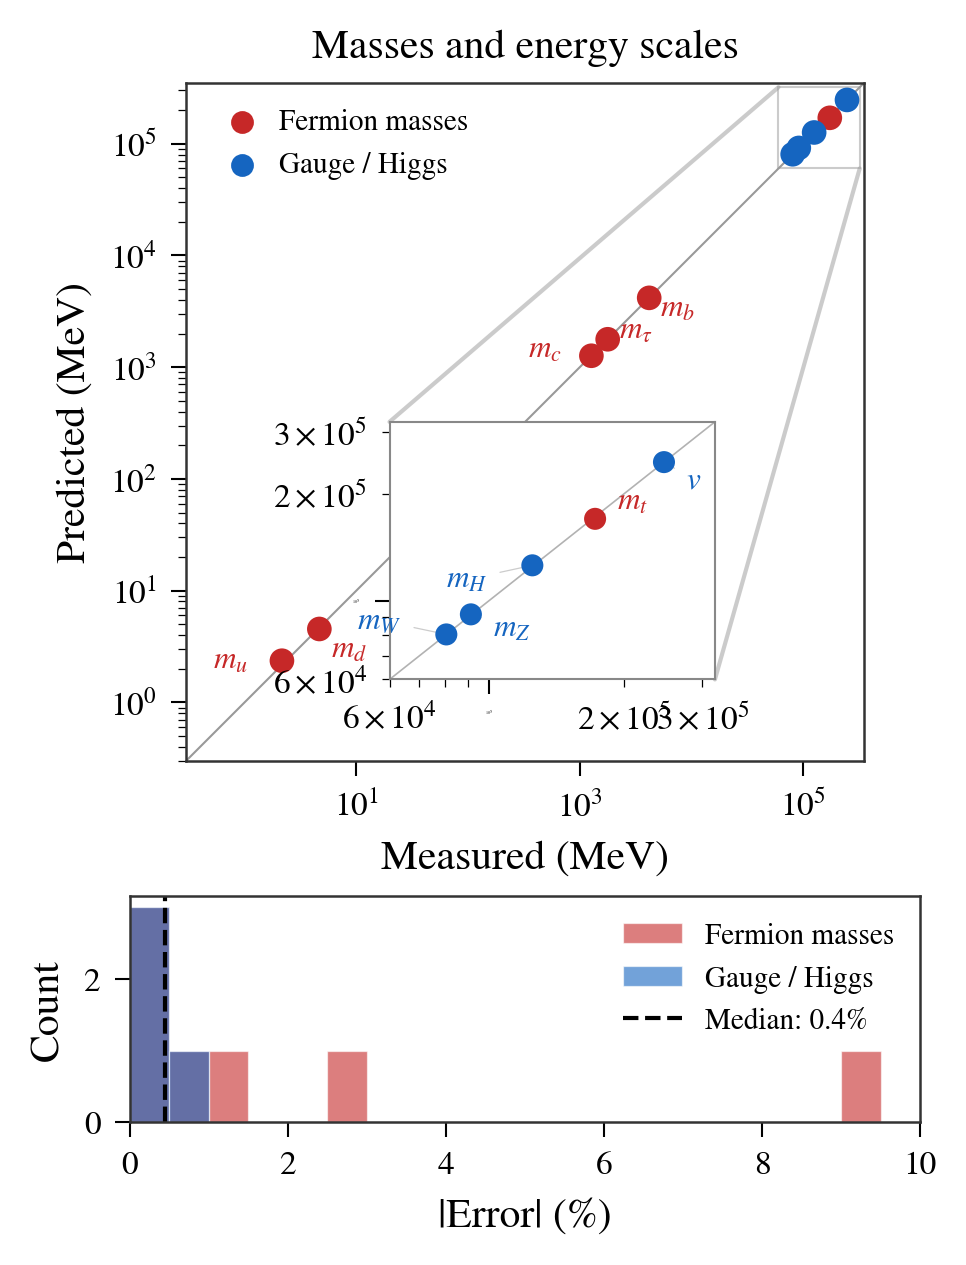
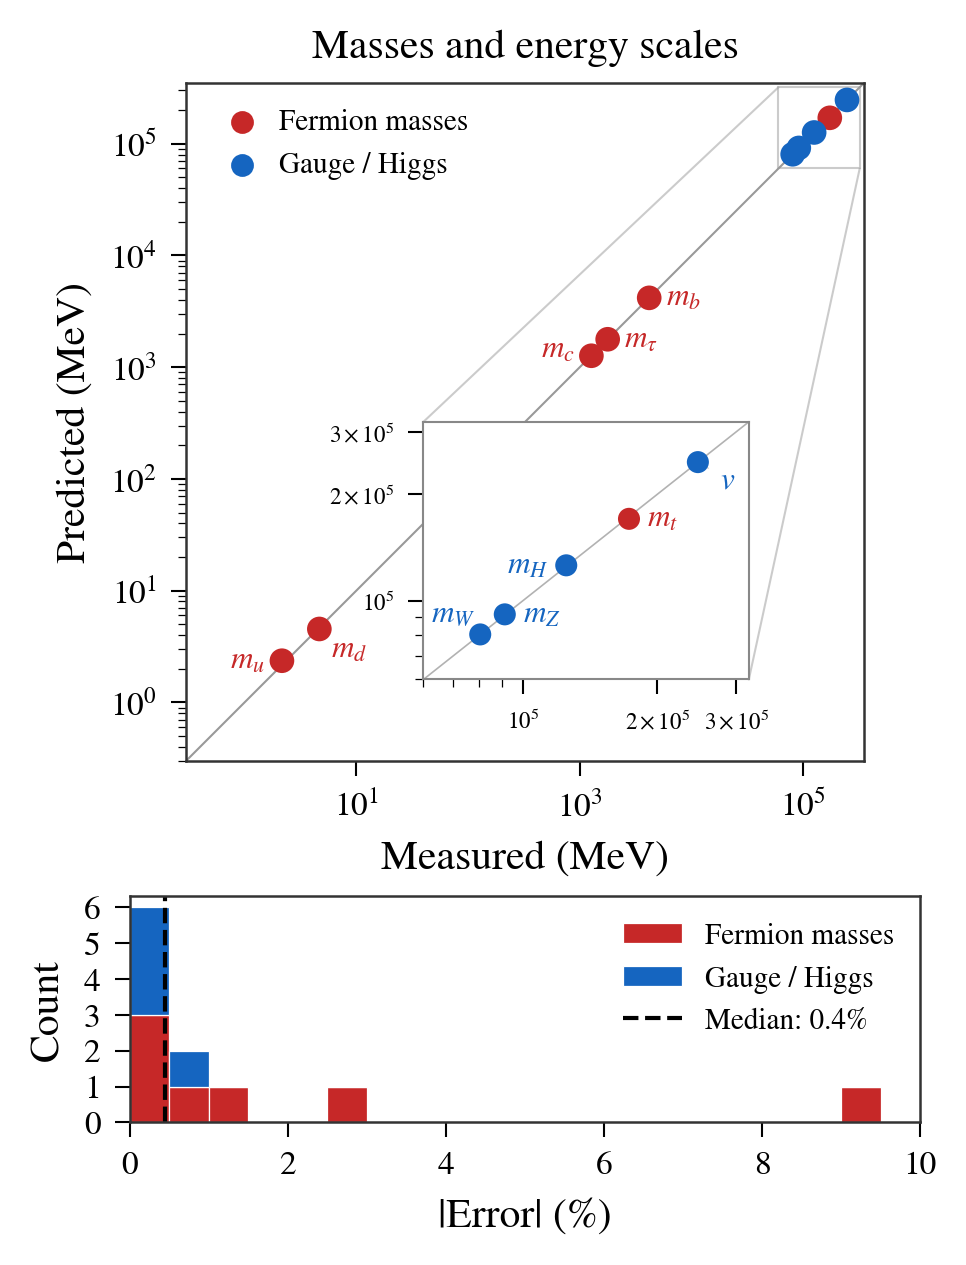
Polish figure 2a/2b: consistent label spacing, thinner zoom lines, stacked histograms
- Align mass labels level with dots (m_t, m_H, m_Z, m_b, m_tau)
- Consistent horizontal label distance across outer plot and inset
- Move m_W label inside inset, remove unnecessary callout lines
- Match zoom connector line thickness to inset box border
- Fix non-integer histogram bars by switching to stacked histograms
- Add callout lines for displaced labels in figure 2b (delta_CP, sin2theta_23)
- Reposition figure 2b inset and labels to avoid collisions

diff --git a/papers/figures/generate_figures.py b/papers/figures/generate_figures.py
@@ -193,12 +193,20 @@ def _add_error_histogram(ax, subset_data):
     present_sectors = sorted(set(s for _, _, _, s in subset_data),
                              key=list(SECTOR_COLORS.keys()).index)
     bins = np.linspace(0, 10, 21)
+    stacked_errors = []
+    stacked_colors = []
+    stacked_labels = []
     for sec in present_sectors:
         sec_errors = [abs(p - m) / m * 100
                       for _, p, m, s in subset_data if s == sec and m != 0]
         if sec_errors:
-            ax.hist(sec_errors, bins=bins, color=SECTOR_COLORS[sec], alpha=0.6,
-                    label=SECTOR_LABELS[sec], edgecolor='white', linewidth=0.3)
+            stacked_errors.append(sec_errors)
+            stacked_colors.append(SECTOR_COLORS[sec])
+            stacked_labels.append(SECTOR_LABELS[sec])
+    if stacked_errors:
+        ax.hist(stacked_errors, bins=bins, color=stacked_colors,
+                label=stacked_labels, stacked=True,
+                edgecolor='white', linewidth=0.3)
     if errors:
         median_err = np.median(errors)
         ax.axvline(median_err, color='black', linewidth=1.0, linestyle='--',
@@ -206,6 +214,7 @@ def _add_error_histogram(ax, subset_data):
     ax.set_xlabel('|Error| (%)')
     ax.set_ylabel('Count')
     ax.set_xlim(0, 10)
+    ax.yaxis.set_major_locator(matplotlib.ticker.MaxNLocator(integer=True))
     ax.legend(fontsize=7, loc='upper right', framealpha=0.8, edgecolor='none')
 
 
@@ -238,12 +247,12 @@ def figure2a_masses():
     # Label well-separated points directly
     ew_labels = {r'$m_t$', r'$v$', r'$m_H$', r'$m_W$', r'$m_Z$'}
     offsets_mass = {
-        r'$m_u$':    (-0.30, 0.0),
+        r'$m_u$':    (-0.15, 0.0),
         r'$m_d$':    (0.10, -0.18),
         r'$m_s$':    (0.10, 0.08),
-        r'$m_c$':    (-0.26, 0.06),
-        r'$m_\tau$': (0.10, 0.08),
-        r'$m_b$':    (0.10, -0.10),
+        r'$m_c$':    (-0.15, 0.06),
+        r'$m_\tau$': (0.15, 0.0),
+        r'$m_b$':    (0.15, 0.0),
     }
     for label, pred, meas, sector in masses:
         if label in ew_labels:
@@ -257,7 +266,7 @@ def figure2a_masses():
                     ha='left' if dx > 0 else 'right', va='center')
 
     # Zoomed inset for electroweak cluster — positioned in the empty center
-    ax_ins = ax.inset_axes([0.30, 0.12, 0.48, 0.38])
+    ax_ins = ax.inset_axes([0.35, 0.12, 0.48, 0.38])
     ew_masses = [(l, p, m, s) for l, p, m, s in masses if l in ew_labels]
     for label, pred, meas, sector in ew_masses:
         ax_ins.scatter(meas, pred, c=SECTOR_COLORS[sector], s=28,
@@ -269,30 +278,40 @@ def figure2a_masses():
     ax_ins.set_yscale('log')
     ax_ins.set_xlim(ins_lo, ins_hi)
     ax_ins.set_ylim(ins_lo, ins_hi)
-    ax_ins.tick_params(labelsize=0)  # hide ticks — labels provide context
+    ax_ins.tick_params(which='both', labelsize=5.5)
+    ax_ins.set_xticks([1e5, 2e5, 3e5])
+    ax_ins.set_yticks([1e5, 2e5, 3e5])
+    ax_ins.xaxis.set_minor_formatter(matplotlib.ticker.NullFormatter())
+    ax_ins.yaxis.set_minor_formatter(matplotlib.ticker.NullFormatter())
     for spine in ax_ins.spines.values():
         spine.set_linewidth(0.5)
         spine.set_color('#888888')
 
     ew_offsets = {
-        r'$m_t$': (0.05, 0.05),
+        r'$m_t$': (0.04, 0.0),
         r'$v$':   (0.05, -0.05),
-        r'$m_H$': (-0.10, -0.04),
-        r'$m_W$': (-0.10, 0.04),
-        r'$m_Z$': (0.05, -0.04),
+        r'$m_H$': (-0.04, 0.0),
+        r'$m_W$': (-0.01, 0.06),
+        r'$m_Z$': (0.04, 0.0),
     }
+    no_callout_inset = {r'$m_H$', r'$m_W$'}
     for label, pred, meas, sector in ew_masses:
         dx, dy = ew_offsets.get(label, (0.05, 0.0))
+        kwargs = dict(fontsize=7.5, color=SECTOR_COLORS[sector],
+                      ha='left' if dx > 0 else 'right', va='center')
+        if label not in no_callout_inset:
+            kwargs['arrowprops'] = dict(arrowstyle='-', color='#cccccc',
+                                        lw=0.3, shrinkA=1, shrinkB=1)
         ax_ins.annotate(label,
                         xy=(meas, pred),
                         xytext=(10**(np.log10(meas) + dx),
                                 10**(np.log10(pred) + dy)),
-                        fontsize=7.5, color=SECTOR_COLORS[sector],
-                        ha='left' if dx > 0 else 'right', va='center',
-                        arrowprops=dict(arrowstyle='-', color='#cccccc',
-                                        lw=0.3, shrinkA=1, shrinkB=1))
+                        **kwargs)
 
-    ax.indicate_inset_zoom(ax_ins, edgecolor='#999999', linewidth=0.5, alpha=0.5)
+    rect, connectors = ax.indicate_inset_zoom(ax_ins, edgecolor='#999999', linewidth=0.5, alpha=0.5)
+    for conn in connectors:
+        if conn is not None:
+            conn.set_linewidth(0.5)
 
     # Legend
     for sec in ['fermion', 'gauge']:
@@ -334,8 +353,8 @@ def figure2b_dimensionless():
 
     # Label well-separated points directly
     direct_labels = {
-        r'$\delta_{CP}$':         (0.12, -0.12),
-        r'$\sin^2\!\theta_{23}$': (0.12, -0.15),
+        r'$\delta_{CP}$':         (-0.12, 0.12),
+        r'$\sin^2\!\theta_{23}$': (-0.15, 0.30),
         r'$\delta_{CP}^\nu$':     (-0.35, -0.12),
     }
     for label, pred, meas, sector in dimless:
@@ -347,10 +366,11 @@ def figure2b_dimensionless():
                         fontsize=7.5, color=SECTOR_COLORS[sector],
                         ha='left' if dx > 0 else 'right', va='center',
                         arrowprops=dict(arrowstyle='-', color='#cccccc',
-                                        lw=0.3) if abs(dx) > 0.2 else None)
+                                        lw=0.3, shrinkA=1, shrinkB=1)
+                        if abs(dx) + abs(dy) > 0.2 else None)
 
     # Zoomed inset for the small-value cluster
-    ax_ins = ax.inset_axes([0.30, 0.08, 0.62, 0.44])
+    ax_ins = ax.inset_axes([0.38, 0.08, 0.60, 0.44])
     small_dimless = [(l, p, m, s) for l, p, m, s in dimless if m < 0.35]
     for label, pred, meas, sector in small_dimless:
         ax_ins.scatter(meas, pred, c=SECTOR_COLORS[sector], s=28,
@@ -369,13 +389,13 @@ def figure2b_dimensionless():
         spine.set_color('#888888')
 
     inset_offsets = {
-        r'$\sin^2\!\theta_W$':    (0.06, -0.035),
-        r'$\alpha_s$':            (0.06,  0.025),
-        r'$V_{us}$':              (-0.10,  0.035),
-        r'$V_{cb}$':              (0.06, -0.02),
-        r'$V_{ub}$':              (0.05,  0.02),
-        r'$\sin^2\!\theta_{13}$': (0.06, -0.012),
-        r'$\sin^2\!\theta_{12}$': (-0.12, -0.035),
+        r'$\sin^2\!\theta_W$':    (0.04, -0.03),
+        r'$\alpha_s$':            (0.06,  0.0),
+        r'$V_{us}$':              (-0.10,  0.05),
+        r'$V_{cb}$':              (0.06,  0.0),
+        r'$V_{ub}$':              (-0.06,  0.03),
+        r'$\sin^2\!\theta_{13}$': (0.06, -0.02),
+        r'$\sin^2\!\theta_{12}$': (-0.06, -0.02),
     }
     for label, pred, meas, sector in small_dimless:
         if label in inset_offsets:
@@ -388,7 +408,10 @@ def figure2b_dimensionless():
                             arrowprops=dict(arrowstyle='-', color='#cccccc',
                                             lw=0.3, shrinkA=1, shrinkB=1))
 
-    ax.indicate_inset_zoom(ax_ins, edgecolor='#999999', linewidth=0.5, alpha=0.5)
+    rect, connectors = ax.indicate_inset_zoom(ax_ins, edgecolor='#999999', linewidth=0.5, alpha=0.5)
+    for conn in connectors:
+        if conn is not None:
+            conn.set_linewidth(0.5)
 
     # Legend
     for sec in ['gauge', 'ckm', 'pmns']:
